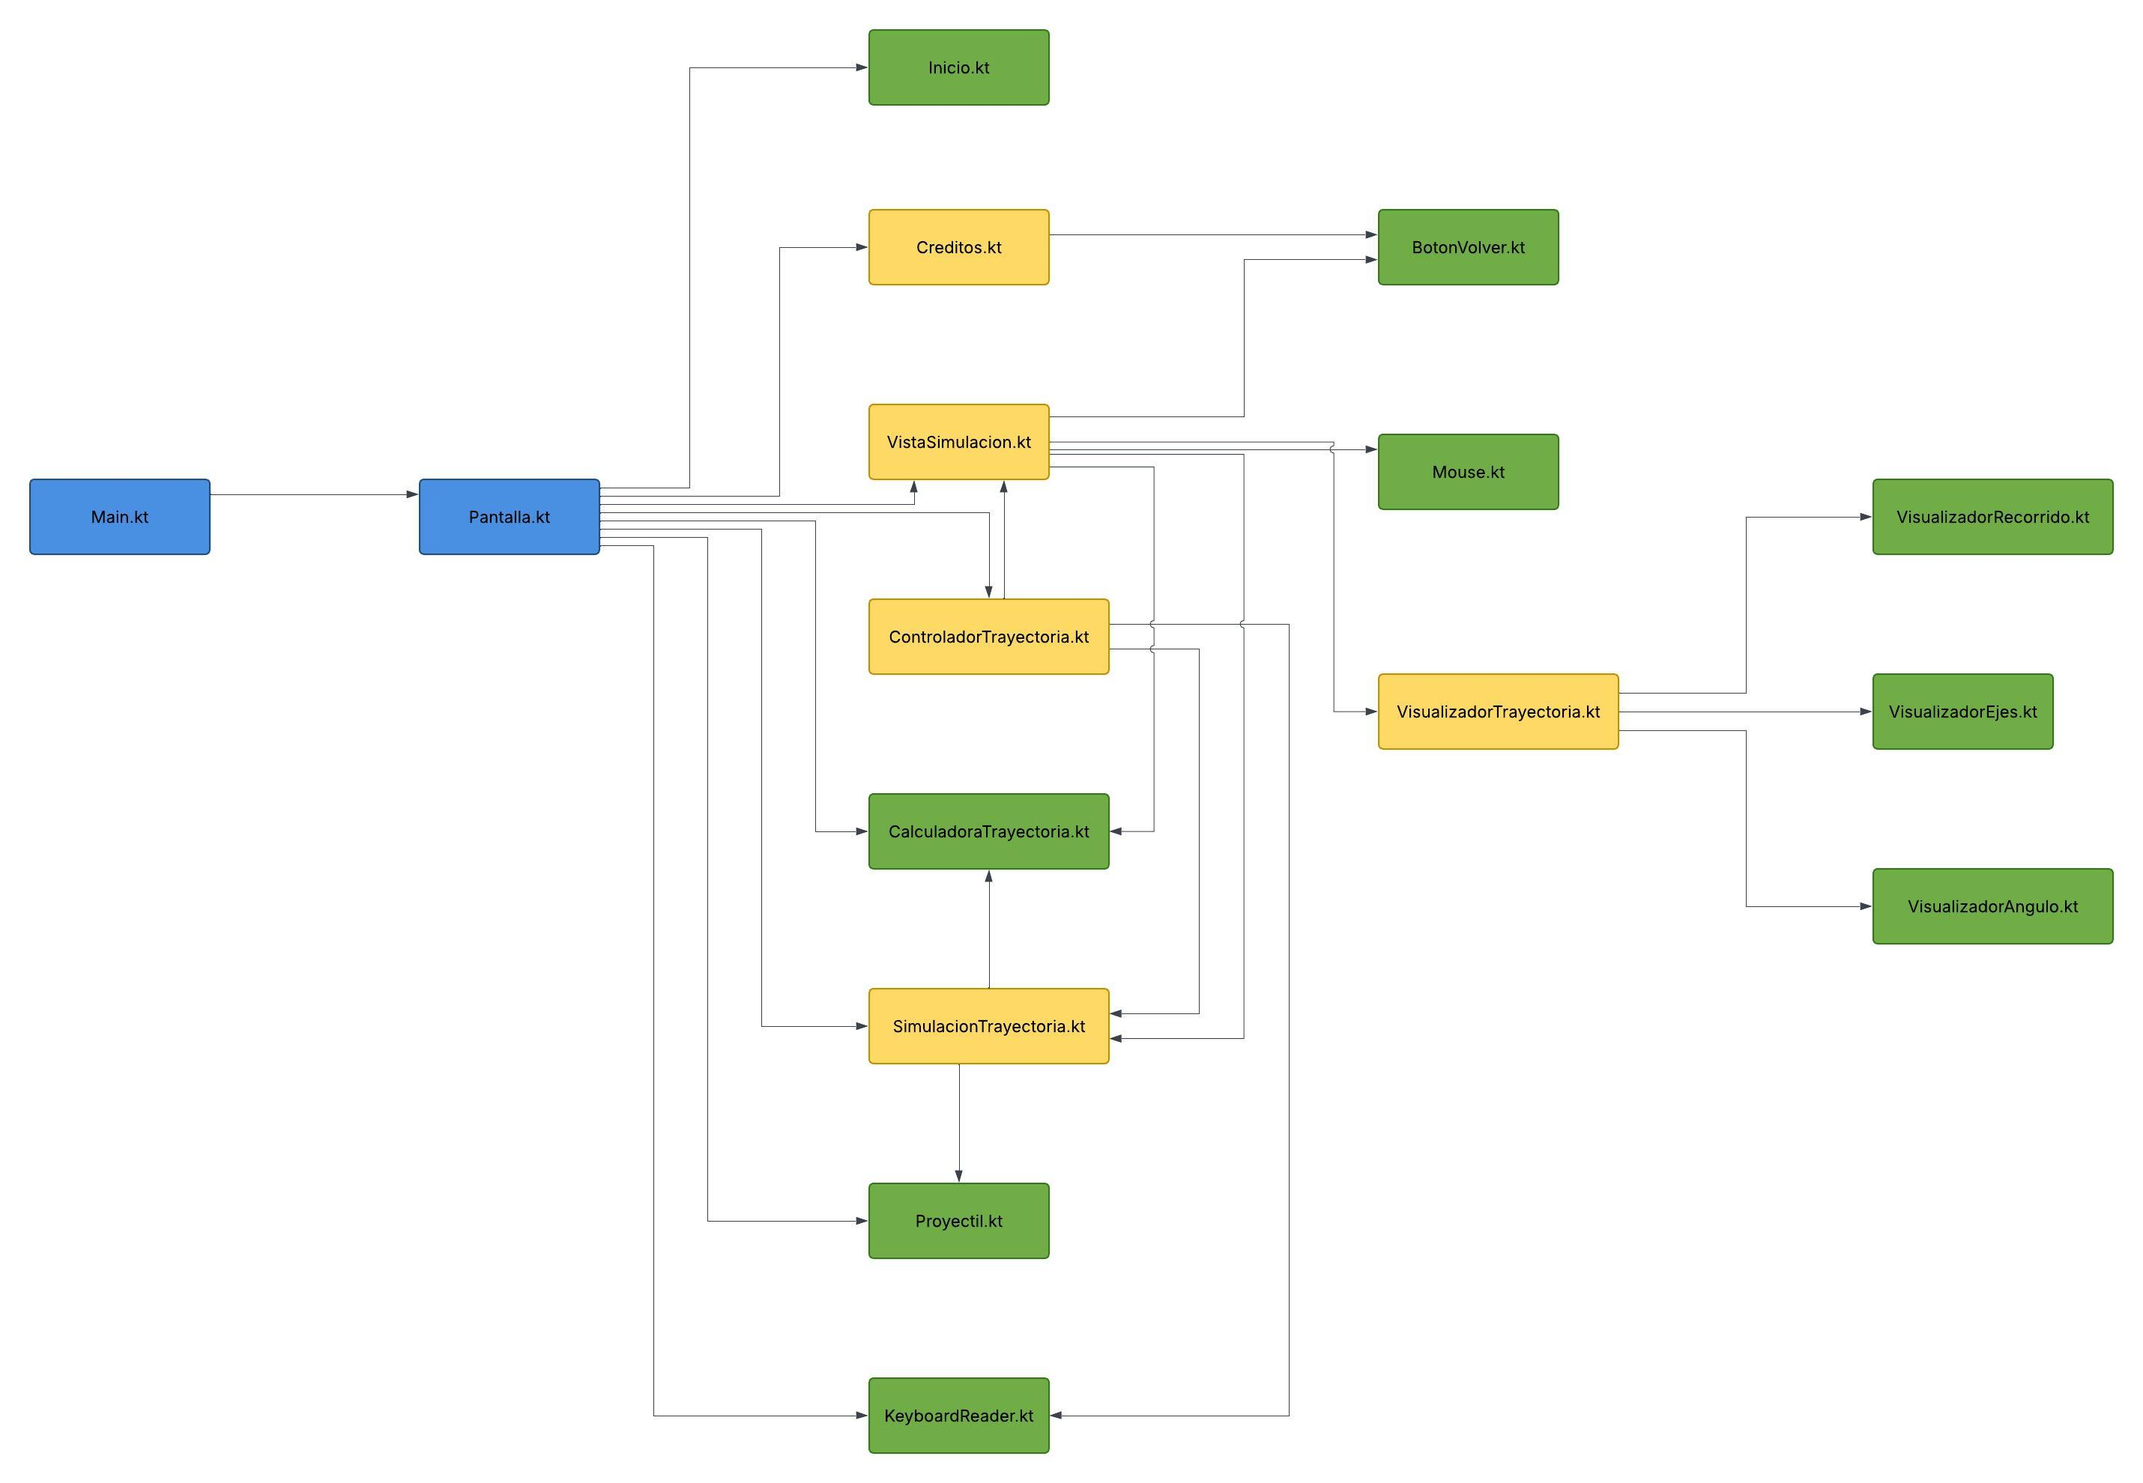
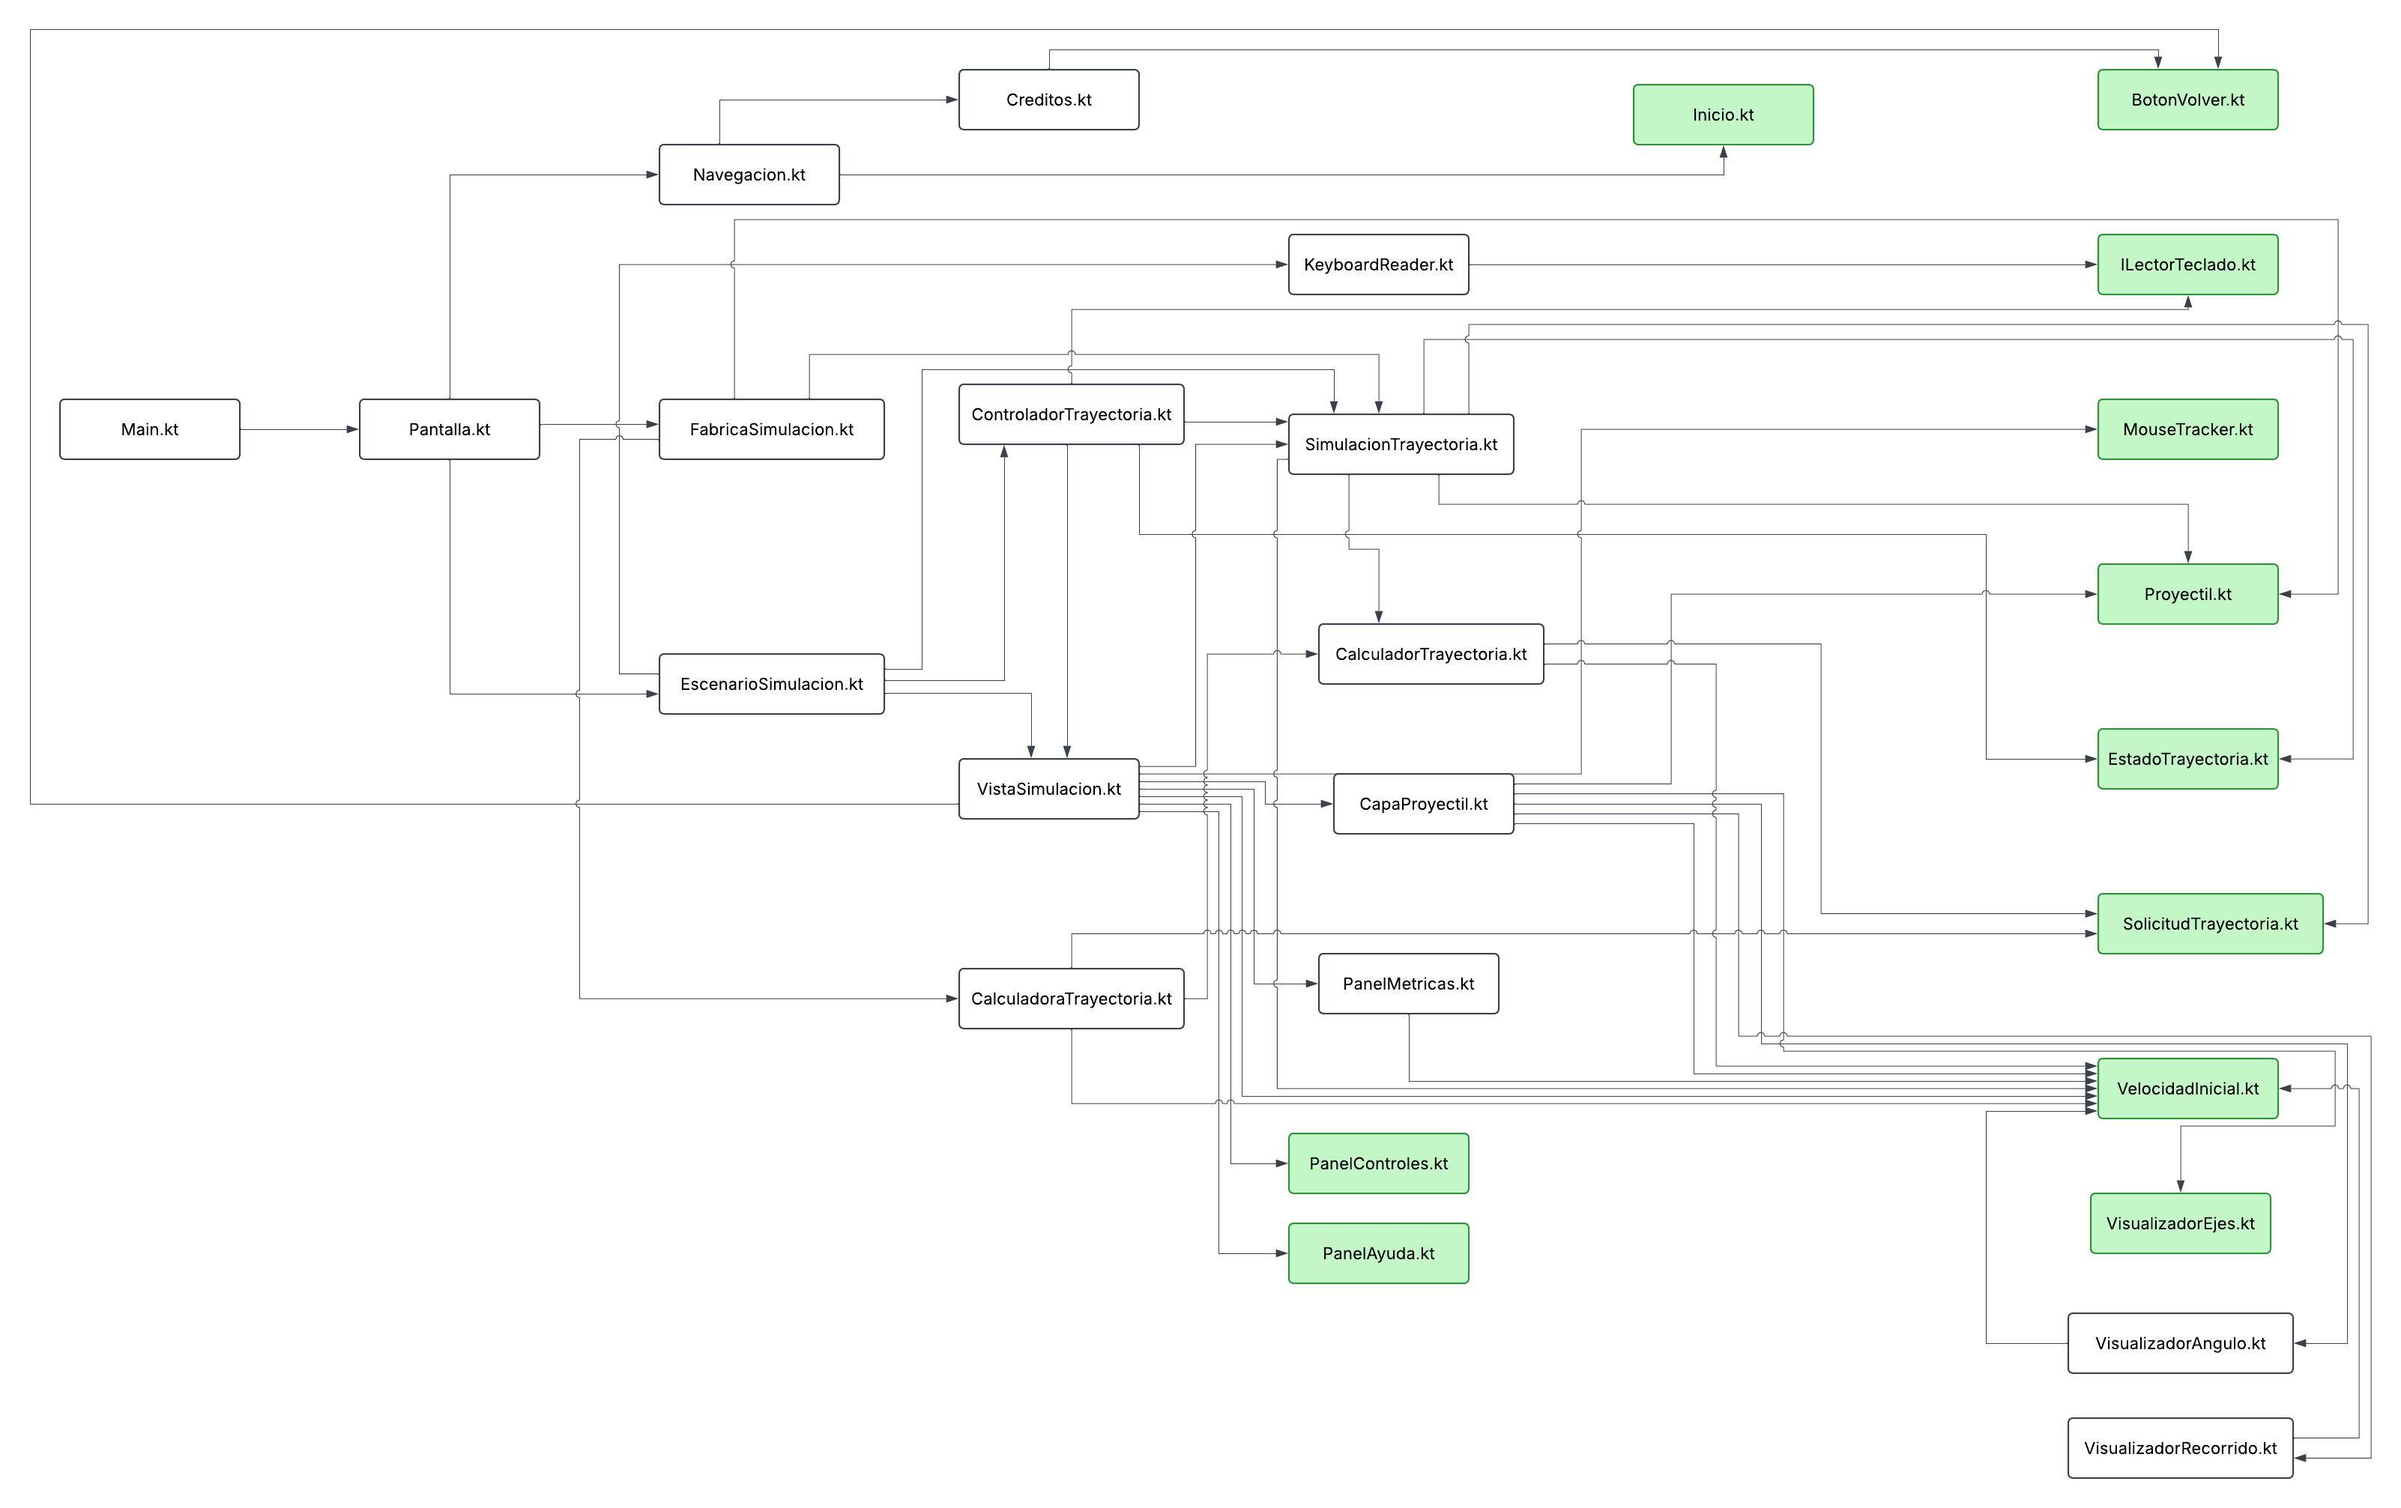
ojalá que sea lo último que corrijo

diff --git a/app/src/main/kotlin/org/example/visuales/Pantalla.kt b/app/src/main/kotlin/org/example/visuales/Pantalla.kt
@@ -1,102 +1,41 @@
 package org.example.visuales
 
 import javafx.application.Application
-import javafx.event.EventHandler
 import javafx.scene.Scene
-import javafx.scene.input.KeyCode
-import javafx.scene.input.KeyEvent
 import javafx.scene.layout.Pane
 import javafx.scene.paint.Color
 import javafx.stage.Stage
-import org.example.fisicas.CalculadoraTrayectoria
-import org.example.fisicas.Proyectil
-import org.example.fisicas.SimulacionTrayectoria
-import org.example.trackeo.KeyboardReader
+import org.example.fisicas.FabricaSimulacion
 
 /**
- * Punto de composicion de la aplicacion.
+ * Punto de entrada de la aplicacion.
  *
- * Responsabilidad unica: armar la simulacion, la vista, el controlador y la
- * ventana principal.
+ * Responsabilidad unica: configurar la ventana y delegar la navegacion y la
+ * partida en sus colaboradores.
  */
 class Pantalla : Application() {
-    private lateinit var escena: Scene
-    private lateinit var rootInicio: Pane
-    private lateinit var vistaSimulacion: VistaSimulacion
-    private lateinit var controlador: ControladorTrayectoria
-    private var posicionDisparoY = POSICION_DISPARO_Y
 
     override fun start(stage: Stage) {
-        val simulacion = crearSimulacion()
-        vistaSimulacion = crearVistaSimulacion(simulacion)
-        escena = Scene(vistaSimulacion.raiz, ANCHO_ESCENA, ALTO_ESCENA, Color.BLACK)
-        controlador = crearControlador(simulacion)
-        bloquearActivacionBotones()
-        rootInicio = crearInicio()
+        val escena = Scene(Pane(), ANCHO_ESCENA, ALTO_ESCENA, Color.BLACK)
+        val navegacion = Navegacion(escena)
+        val escenario = EscenarioSimulacion(escena, FabricaSimulacion().crear()) {
+            navegacion.mostrarInicio()
+        }
+        navegacion.configurarInicio {
+            navegacion.mostrar(escenario.raiz)
+            escenario.prepararPartida()
+        }
 
         stage.title = TITULO
-        mostrarVista(rootInicio)
+        navegacion.mostrarInicio()
         stage.scene = escena
         stage.show()
-        controlador.iniciar()
-    }
-
-    private fun crearSimulacion(): SimulacionTrayectoria = SimulacionTrayectoria(
-        calculadora = CalculadoraTrayectoria(),
-        pixelesPorMetro = PIXELES_POR_METRO,
-        gravedad = GRAVEDAD_METROS_POR_SEGUNDO_CUADRADO,
-        proyectil = Proyectil(posicionX = 100.0, posicionY = 620.0)
-    )
-
-    private fun crearVistaSimulacion(simulacion: SimulacionTrayectoria): VistaSimulacion =
-        VistaSimulacion(simulacion) {
-            controlador.prepararPartida(posicionDisparoY)
-            mostrarVista(rootInicio)
-        }
-
-    private fun crearControlador(simulacion: SimulacionTrayectoria): ControladorTrayectoria {
-        val teclado = KeyboardReader().apply { attachTo(escena) }
-        return ControladorTrayectoria(simulacion, vistaSimulacion, teclado, escena)
-    }
-
-    private fun bloquearActivacionBotones() {
-        val bloqueo = EventHandler<KeyEvent> { evento ->
-            if (
-                escena.root === vistaSimulacion.raiz &&
-                (evento.code == KeyCode.SPACE || evento.code == KeyCode.ENTER)
-            ) {
-                evento.consume()
-            }
-        }
-        escena.addEventFilter(KeyEvent.KEY_PRESSED, bloqueo)
-        escena.addEventFilter(KeyEvent.KEY_RELEASED, bloqueo)
-    }
-
-    private fun crearInicio(): Pane {
-        val rootCreditos = Creditos().crearVista { mostrarVista(rootInicio) }
-        return Inicio().crearVista(
-            onIniciarClick = {
-                mostrarVista(vistaSimulacion.raiz)
-                posicionDisparoY = vistaSimulacion.posicionInicialY()
-                controlador.prepararPartida(posicionDisparoY)
-                vistaSimulacion.abrirAyuda()
-            },
-            onCreditosClick = { mostrarVista(rootCreditos) }
-        )
-    }
-
-    private fun mostrarVista(root: Pane) {
-        escena.root = root
-        root.applyCss()
-        root.layout()
+        escenario.iniciar()
     }
 
     private companion object {
         const val TITULO = "Proyecto Física MRUV re fachero facherito"
         const val ANCHO_ESCENA = 1280.0
         const val ALTO_ESCENA = 720.0
-        const val POSICION_DISPARO_Y = 620.0
-        const val PIXELES_POR_METRO = 100.0
-        const val GRAVEDAD_METROS_POR_SEGUNDO_CUADRADO = 9.81
     }
 }

diff --git a/app/src/main/kotlin/org/example/visuales/EscenarioSimulacion.kt b/app/src/main/kotlin/org/example/visuales/EscenarioSimulacion.kt
@@ -1,0 +1,63 @@
+package org.example.visuales
+
+import javafx.event.EventHandler
+import javafx.scene.Scene
+import javafx.scene.input.KeyCode
+import javafx.scene.input.KeyEvent
+import org.example.fisicas.SimulacionTrayectoria
+import org.example.trackeo.KeyboardReader
+
+/**
+ * Escenario de la partida.
+ *
+ * Responsabilidad unica: coordinar la simulacion, su vista y su controlador
+ * dentro de la escena.
+ */
+class EscenarioSimulacion(
+    private val escena: Scene,
+    private val simulacion: SimulacionTrayectoria,
+    private val onVolver: () -> Unit
+) {
+    private val vista = VistaSimulacion(simulacion) { volverAlInicio() }
+    private val controlador = ControladorTrayectoria(
+        simulacion,
+        vista,
+        KeyboardReader().apply { attachTo(escena) },
+        escena
+    )
+    private var posicionDisparoY = simulacion.proyectil.posicionY
+
+    val raiz get() = vista.raiz
+
+    init {
+        bloquearActivacionBotones()
+    }
+
+    fun iniciar() {
+        controlador.iniciar()
+    }
+
+    fun prepararPartida() {
+        posicionDisparoY = vista.posicionInicialY()
+        controlador.prepararPartida(posicionDisparoY)
+        vista.abrirAyuda()
+    }
+
+    private fun volverAlInicio() {
+        controlador.prepararPartida(posicionDisparoY)
+        onVolver()
+    }
+
+    private fun bloquearActivacionBotones() {
+        val bloqueo = EventHandler<KeyEvent> { evento ->
+            if (
+                escena.root === vista.raiz &&
+                (evento.code == KeyCode.SPACE || evento.code == KeyCode.ENTER)
+            ) {
+                evento.consume()
+            }
+        }
+        escena.addEventFilter(KeyEvent.KEY_PRESSED, bloqueo)
+        escena.addEventFilter(KeyEvent.KEY_RELEASED, bloqueo)
+    }
+}

diff --git a/app/src/main/kotlin/org/example/visuales/Navegacion.kt b/app/src/main/kotlin/org/example/visuales/Navegacion.kt
@@ -1,0 +1,33 @@
+package org.example.visuales
+
+import javafx.scene.Scene
+import javafx.scene.layout.Pane
+
+/**
+ * Navegacion entre las pantallas de la aplicacion.
+ *
+ * Responsabilidad unica: construir el menu y cambiar la vista visible.
+ */
+class Navegacion(private val escena: Scene) {
+    private lateinit var raizInicio: Pane
+    private val raizCreditos: Pane by lazy {
+        Creditos().crearVista { mostrarInicio() }
+    }
+
+    fun configurarInicio(onIniciarClick: () -> Unit) {
+        raizInicio = Inicio().crearVista(
+            onIniciarClick = onIniciarClick,
+            onCreditosClick = { mostrar(raizCreditos) }
+        )
+    }
+
+    fun mostrarInicio() {
+        mostrar(raizInicio)
+    }
+
+    fun mostrar(raiz: Pane) {
+        escena.root = raiz
+        raiz.applyCss()
+        raiz.layout()
+    }
+}

diff --git a/app/src/main/kotlin/org/example/fisicas/FabricaSimulacion.kt b/app/src/main/kotlin/org/example/fisicas/FabricaSimulacion.kt
@@ -1,0 +1,24 @@
+package org.example.fisicas
+
+/**
+ * Fabrica de la simulacion estandar.
+ *
+ * Responsabilidad unica: construir y configurar una simulacion de tiro
+ * parabolico lista para la partida.
+ */
+class FabricaSimulacion {
+
+    fun crear(): SimulacionTrayectoria = SimulacionTrayectoria(
+        calculadora = CalculadoraTrayectoria(),
+        pixelesPorMetro = PIXELES_POR_METRO,
+        gravedad = GRAVEDAD_METROS_POR_SEGUNDO_CUADRADO,
+        proyectil = Proyectil(posicionX = ORIGEN_X, posicionY = POSICION_DISPARO_Y)
+    )
+
+    private companion object {
+        const val ORIGEN_X = 100.0
+        const val POSICION_DISPARO_Y = 620.0
+        const val PIXELES_POR_METRO = 100.0
+        const val GRAVEDAD_METROS_POR_SEGUNDO_CUADRADO = 9.81
+    }
+}
